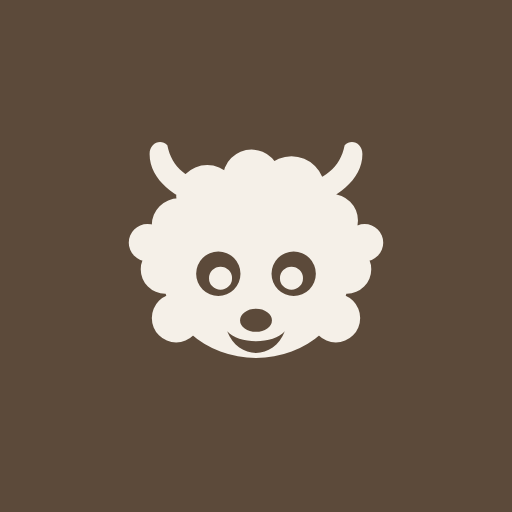
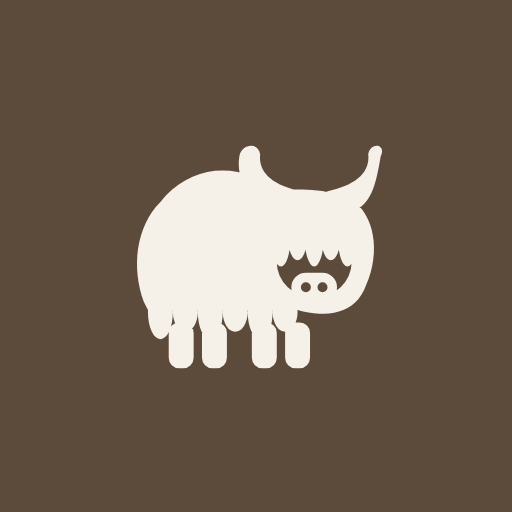
feat(brand): draw the mark from the mascot's pose
Replace the fluffy face with the mascot's silhouette: a shaggy body seen
from the side, head turned to the viewer under a rounded fringe, two horns
and a soft muzzle. Body, legs, hem tufts and horns union clockwise; the
face is a counter-wound cut-out that the fringe and muzzle refill. Meant
for the small sizes the mark serves. Regenerate the favicon, touch icon and
PWA icons from it.

Claude-Session: https://claude.ai/code/session_012skgfkdMFZkAYbAtj4MyVG

diff --git a/resources/js/lib/brand.ts b/resources/js/lib/brand.ts
@@ -1,45 +1,46 @@
 import type { BrandMark } from '@geocodio/console-ui';
 
 /**
- * Yak's identity mark: a fluffy yak face, drawn once as data so the same
- * silhouette renders in the sidebar lockup, paints the tab favicon and
- * serialises to the static touch icons under `public/`. One flat colour,
- * one closed silhouette: the fringe, cheeks and ears are overlapping
- * clockwise circles that union under the nonzero fill rule, while the eyes,
- * nose and smile are counter-wound subpaths that knock out, with a
- * clockwise pupil refilled inside each eye.
+ * Yak's identity mark: the mascot's pose as a silhouette, a shaggy body seen
+ * from the side with the head turned to the viewer. Drawn once as data so the
+ * same shape renders in the sidebar lockup, paints the tab favicon and
+ * serialises to the static touch icons under `public/`. One flat colour under
+ * the nonzero fill rule: the outline, legs, hem tufts and horns are clockwise
+ * and union; the face is a counter-wound cut-out; the fringe strands and the
+ * muzzle are clockwise again so they refill inside it, and the nostrils are
+ * counter-wound once more. Meant for small sizes, where the fur and horns
+ * carry the read; the illustrated mascot stays the hero at large sizes.
  */
 export const YAK_MARK: BrandMark = {
-    viewBox: '0 0 64 64',
-    faviconViewBox: '2 3 60 60',
+    viewBox: '2 2 64 58',
     shapes: [
         {
             tag: 'path',
             attrs: {
                 'fill-rule': 'nonzero',
                 d: [
-                    'M11 37 a21 19 0 1 1 42 0 a21 19 0 1 1 -42 0 Z',
-                    'M8.5 26 a6 6 0 1 1 12 0 a6 6 0 1 1 -12 0 Z',
-                    'M14 19.5 a7 7 0 1 1 14 0 a7 7 0 1 1 -14 0 Z',
-                    'M24.5 15.5 a6.5 6.5 0 1 1 13 0 a6.5 6.5 0 1 1 -13 0 Z',
-                    'M32.5 18 a7.5 7.5 0 1 1 15 0 a7.5 7.5 0 1 1 -15 0 Z',
-                    'M43 25 a6 6 0 1 1 12 0 a6 6 0 1 1 -12 0 Z',
-                    'M6 36 a5.5 5.5 0 1 1 11 0 a5.5 5.5 0 1 1 -11 0 Z',
-                    'M47 36 a5.5 5.5 0 1 1 11 0 a5.5 5.5 0 1 1 -11 0 Z',
-                    'M8.5 47 a5.5 5.5 0 1 1 11 0 a5.5 5.5 0 1 1 -11 0 Z',
-                    'M44.5 47 a5.5 5.5 0 1 1 11 0 a5.5 5.5 0 1 1 -11 0 Z',
-                    'M9 30 a4 4 0 1 1 8 0 a4 4 0 1 1 -8 0 Z',
-                    'M47 30 a4 4 0 1 1 8 0 a4 4 0 1 1 -8 0 Z',
-                    'M3.3 30 a4.2 4.2 0 1 1 8.4 0 a4.2 4.2 0 1 1 -8.4 0 Z',
-                    'M52.3 30 a4.2 4.2 0 1 1 8.4 0 a4.2 4.2 0 1 1 -8.4 0 Z',
-                    'M20 22 C14 20 8 16 8 10 C8 7.5 10.5 6.5 12 8 C13 13 16.5 16 23 17 Z',
-                    'M41 17 C47.5 16 51 13 52 8 C53.5 6.5 56 7.5 56 10 C56 16 50 20 44 22 Z',
-                    'M18.5 37 a5 5 0 1 0 10 0 a5 5 0 1 0 -10 0 Z',
-                    'M21.4 38 a2.6 2.6 0 1 1 5.2 0 a2.6 2.6 0 1 1 -5.2 0 Z',
-                    'M35.5 37 a5 5 0 1 0 10 0 a5 5 0 1 0 -10 0 Z',
-                    'M37.4 38 a2.6 2.6 0 1 1 5.2 0 a2.6 2.6 0 1 1 -5.2 0 Z',
-                    'M28.4 47.5 a3.6 2.6 0 1 0 7.2 0 a3.6 2.6 0 1 0 -7.2 0 Z',
-                    'M25.5 50 C28 56.5 36 56.5 38.5 50 C36 53 28 53 25.5 50 Z',
+                    'M38.00 15.00 L39.14 15.00 L40.29 14.98 L41.47 14.97 L42.66 14.97 L43.86 14.98 L45.07 15.00 L46.28 15.05 L47.50 15.12 L48.72 15.24 L49.93 15.39 L51.14 15.59 L52.34 15.84 L53.53 16.16 L54.71 16.53 L55.86 16.98 L57.00 17.50 L57.98 18.22 L58.87 19.06 L59.67 20.01 L60.36 21.05 L60.95 22.19 L61.45 23.42 L61.84 24.71 L62.12 26.06 L62.31 27.47 L62.38 28.92 L62.35 30.41 L62.20 31.91 L61.95 33.44 L61.58 34.97 L61.10 36.49 L60.50 38.00 L59.98 39.24 L59.36 40.35 L58.65 41.32 L57.85 42.17 L56.98 42.90 L56.03 43.50 L55.01 43.99 L53.94 44.38 L52.81 44.65 L51.64 44.83 L50.43 44.90 L49.18 44.89 L47.91 44.79 L46.62 44.60 L45.31 44.34 L44.00 44.00 L8.00 44.00 L7.00 42.00 L6.48 40.48 L6.06 38.92 L5.74 37.33 L5.52 35.72 L5.39 34.10 L5.37 32.47 L5.44 30.85 L5.62 29.25 L5.91 27.67 L6.31 26.12 L6.81 24.61 L7.42 23.16 L8.15 21.76 L8.98 20.43 L9.93 19.17 L11.00 18.00 L12.37 16.41 L13.84 15.00 L15.41 13.78 L17.05 12.75 L18.75 11.91 L20.51 11.25 L22.30 10.78 L24.12 10.50 L25.96 10.41 L27.79 10.50 L29.60 10.78 L31.39 11.25 L33.14 11.91 L34.83 12.75 L36.46 13.78 L38.00 15.00 Z',
+                    'M15.5 47 h1 a2.5 2.5 0 0 1 2.5 2.5 v6 a2.5 2.5 0 0 1 -2.5 2.5 h-1 a2.5 2.5 0 0 1 -2.5 -2.5 v-6 a2.5 2.5 0 0 1 2.5 -2.5 Z',
+                    'M23.5 47 h1 a2.5 2.5 0 0 1 2.5 2.5 v6 a2.5 2.5 0 0 1 -2.5 2.5 h-1 a2.5 2.5 0 0 1 -2.5 -2.5 v-6 a2.5 2.5 0 0 1 2.5 -2.5 Z',
+                    'M35.5 47 h1 a2.5 2.5 0 0 1 2.5 2.5 v6 a2.5 2.5 0 0 1 -2.5 2.5 h-1 a2.5 2.5 0 0 1 -2.5 -2.5 v-6 a2.5 2.5 0 0 1 2.5 -2.5 Z',
+                    'M43.5 47 h1 a2.5 2.5 0 0 1 2.5 2.5 v6 a2.5 2.5 0 0 1 -2.5 2.5 h-1 a2.5 2.5 0 0 1 -2.5 -2.5 v-6 a2.5 2.5 0 0 1 2.5 -2.5 Z',
+                    'M8 44.5 a3 6.5 0 1 1 6 0 a3 6.5 0 1 1 -6 0 Z',
+                    'M14 44.5 a3 4.7 0 1 1 6 0 a3 4.7 0 1 1 -6 0 Z',
+                    'M20 44.5 a3 6.5 0 1 1 6 0 a3 6.5 0 1 1 -6 0 Z',
+                    'M26 44.5 a3 4.7 0 1 1 6 0 a3 4.7 0 1 1 -6 0 Z',
+                    'M32 44.5 a3 6.5 0 1 1 6 0 a3 6.5 0 1 1 -6 0 Z',
+                    'M38 44.5 a3 4.7 0 1 1 6 0 a3 4.7 0 1 1 -6 0 Z',
+                    'M38 19.5 C33 18 29 13 30 7 C30.5 4 34.5 3.5 35 6.5 C34.5 11 38 14 45 15.5 Z',
+                    'M51 15.5 C58 14 61.5 11 61 6.5 C61.5 3.5 65.5 4 64 7 C63 13 62 18 58 20 Z',
+                    'M39 32.5 a9 8.5 0 1 0 18 0 a9 8.5 0 1 0 -18 0 Z',
+                    'M37.7 26.5 a2.3 7 0 1 1 4.6 0 a2.3 7 0 1 1 -4.6 0 Z',
+                    'M41.7 26.5 a2.3 5.5 0 1 1 4.6 0 a2.3 5.5 0 1 1 -4.6 0 Z',
+                    'M45.7 26.5 a2.3 7 0 1 1 4.6 0 a2.3 7 0 1 1 -4.6 0 Z',
+                    'M49.7 26.5 a2.3 5.5 0 1 1 4.6 0 a2.3 5.5 0 1 1 -4.6 0 Z',
+                    'M53.7 26.5 a2.3 7 0 1 1 4.6 0 a2.3 7 0 1 1 -4.6 0 Z',
+                    'M46 35 h4 a3.5 3.5 0 0 1 3.5 3.5 v0 a3.5 3.5 0 0 1 -3.5 3.5 h-4 a3.5 3.5 0 0 1 -3.5 -3.5 v-0 a3.5 3.5 0 0 1 3.5 -3.5 Z',
+                    'M44.8 38.5 a1.2 1.2 0 1 0 2.4 0 a1.2 1.2 0 1 0 -2.4 0 Z',
+                    'M48.8 38.5 a1.2 1.2 0 1 0 2.4 0 a1.2 1.2 0 1 0 -2.4 0 Z',
                 ].join(' '),
             },
         },
